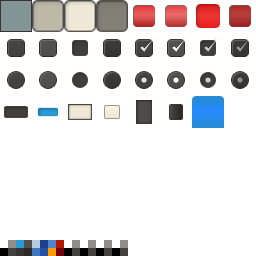
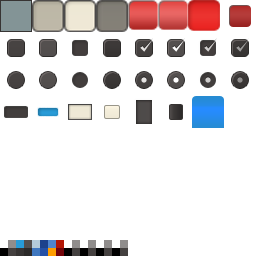
Fix sizing.

Changed region(s): [[0.5, 0.0, 0.875, 0.125]]

diff --git a/src/engine/opengl/SlicedGUIQuad.h b/src/engine/opengl/SlicedGUIQuad.h
@@ -19,33 +19,33 @@ private:
         /// LL
         pos->data[0]=glm::vec3(-m_size.x,-m_size.y,0);
 
-        pos->data[1]=glm::vec3(-m_size.x+(m_size.x/100.f)*m_margin,-m_size.y,0); /// X+
-        pos->data[2]=glm::vec3(-m_size.x+(m_size.x/100.f)*m_margin,-m_size.y+(m_size.y/100.f)*m_margin,0); /// Y+ X+
-        pos->data[3]=glm::vec3(-m_size.x,-m_size.y+(m_size.y/100.f)*m_margin,0); /// Y+
+        pos->data[1]=glm::vec3(-m_size.x+m_margin*ratio.x,-m_size.y,0); /// X+
+        pos->data[2]=glm::vec3(-m_size.x+m_margin*ratio.x,-m_size.y+m_margin*ratio.y,0); /// Y+ X+
+        pos->data[3]=glm::vec3(-m_size.x,-m_size.y+m_margin*ratio.y,0); /// Y+
         /// ///////////////////////////////////////////////////////
 
         /// LR
         pos->data[4]=glm::vec3(m_size.x,-m_size.y,0);
 
-        pos->data[5]=glm::vec3(m_size.x-(m_size.x/100.f)*m_margin,-m_size.y,0); /// X- Y
-        pos->data[6]=glm::vec3(m_size.x-(m_size.x/100.f)*m_margin,-m_size.y+(m_size.y/100.f)*m_margin,0); /// X- Y+
-        pos->data[7]=glm::vec3(m_size.x,-m_size.y+(m_size.y/100.f)*m_margin,0); /// X Y+
+        pos->data[5]=glm::vec3(m_size.x-m_margin*ratio.x,-m_size.y,0); /// X- Y
+        pos->data[6]=glm::vec3(m_size.x-m_margin*ratio.x,-m_size.y+m_margin*ratio.y,0); /// X- Y+
+        pos->data[7]=glm::vec3(m_size.x,-m_size.y+m_margin*ratio.y,0); /// X Y+
         /// ///////////////////////////////////////////////////////
 
         /// UR
         pos->data[8]=glm::vec3(m_size.x,m_size.y,0);
 
-        pos->data[9]=glm::vec3(m_size.x-(m_size.x/100.f)*m_margin,m_size.y,0); /// X- Y
-        pos->data[10]=glm::vec3(m_size.x-(m_size.x/100.f)*m_margin,m_size.y-(m_size.y/100.f)*m_margin,0); /// X- Y-
-        pos->data[11]=glm::vec3(m_size.x,m_size.y-(m_size.y/100.f)*m_margin,0); /// X Y-
+        pos->data[9]=glm::vec3(m_size.x-m_margin*ratio.x,m_size.y,0); /// X- Y
+        pos->data[10]=glm::vec3(m_size.x-m_margin*ratio.x,m_size.y-m_margin*ratio.y,0); /// X- Y-
+        pos->data[11]=glm::vec3(m_size.x,m_size.y-m_margin*ratio.y,0); /// X Y-
         /// ///////////////////////////////////////////////////////
 
         /// UL
         pos->data[12]=glm::vec3(-m_size.x,m_size.y,0);
 
-        pos->data[13]=glm::vec3(-m_size.x+(m_size.x/100.f)*m_margin,m_size.y,0);
-        pos->data[14]=glm::vec3(-m_size.x,m_size.y-(m_size.y/100.f)*m_margin,0);
-        pos->data[15]=glm::vec3(-m_size.x+(m_size.x/100.f)*m_margin,m_size.y-(m_size.y/100.f)*m_margin,0);
+        pos->data[13]=glm::vec3(-m_size.x+m_margin*ratio.x,m_size.y,0);
+        pos->data[14]=glm::vec3(-m_size.x,m_size.y-m_margin*ratio.y,0);
+        pos->data[15]=glm::vec3(-m_size.x+m_margin*ratio.x,m_size.y-m_margin*ratio.y,0);
         /// ///////////////////////////////////////////////////////
     }
 
@@ -95,8 +95,8 @@ public:
         tex_coords->data.resize(16);
 
         glm::vec2 tm(1);
-        tm.x = 1/256.f*m_margin;
-        tm.y = 1/256.f*m_margin;
+        tm.x = 1.f/256.f*m_margin;
+        tm.y = 1.f/256.f*m_margin;
 
         glm::vec2 a=glm::vec2(helpers::limit(uvs[0].x,0.f,1.f),helpers::limit(uvs[0].y,0.f,1.f));
         glm::vec2 b=glm::vec2(helpers::limit(uvs[1].x,0.f,1.f),helpers::limit(uvs[1].y,0.f,1.f));
@@ -150,12 +150,12 @@ public:
 
     void Render()
     {
-        //glPolygonMode(GL_FRONT_AND_BACK,GL_LINE);
-        //glBindTexture(GL_TEXTURE_2D,0);
+//        glPolygonMode(GL_FRONT_AND_BACK,GL_LINE);
+//        glBindTexture(GL_TEXTURE_2D,0);
         glBindVertexArray(glmesh->vao);
         glDrawElements(GL_TRIANGLES,54,GL_UNSIGNED_INT,0);
         glBindVertexArray(0);
-        //glPolygonMode(GL_FRONT_AND_BACK,GL_FILL);
+//        glPolygonMode(GL_FRONT_AND_BACK,GL_FILL);
     }
 
     void SetTCoords(vector<glm::vec2> tcoords)
@@ -185,6 +185,9 @@ public:
             this->m_size.x=1.f;
             this->m_size.y=1.f;
         }
+
+        ratio.x=1.f/size.x;
+        ratio.y=1.f/size.y;
 
         CreateVerts();
 

diff --git a/src/engine/gui/GUIEnvironment.cpp b/src/engine/gui/GUIEnvironment.cpp
@@ -347,7 +347,7 @@ void GUIEnvironment::draw_sliced_gui_quad(Rect2D<int> dims,std::shared_ptr<Textu
 
     glUniformMatrix4fv(gui_shader->getparam("M"),1,GL_FALSE,glm::value_ptr(M));
     glUniform1ui(gui_shader->getparam("coloured"),0);
-    //sliced_quad->SetRatio(glm::vec2(dims.w,dims.h));
+    sliced_quad->SetRatio(glm::vec2(dims.w,dims.h));
     sliced_quad->Render();
 
     glDisable(GL_BLEND);
@@ -373,7 +373,7 @@ void GUIEnvironment::draw_sliced_gui_quad(Rect2D<int> dims,uint32_t style,bool t
     glUniformMatrix4fv(gui_shader->getparam("M"),1,GL_FALSE,glm::value_ptr(M));
     glUniform1ui(gui_shader->getparam("coloured"),0);
     glUniform1f(gui_shader->getparam("alpha"),0.9f);
-    //sliced_quad->SetRatio(glm::vec2(dims.w,dims.h));
+    sliced_quad->SetRatio(glm::vec2(dims.w,dims.h));
     sliced_quad->Render();
     glDisable(GL_BLEND);
     glBindTexture(GL_TEXTURE_2D,0);
@@ -393,6 +393,6 @@ void GUIEnvironment::draw_sliced_gui_quad(Rect2D<int> dims,glm::vec4 col)
     glUniformMatrix4fv(gui_shader->getparam("M"),1,GL_FALSE,glm::value_ptr(M));
     glUniform1ui(gui_shader->getparam("coloured"),1);
     glUniform4fv(gui_shader->getparam("color"),1,glm::value_ptr(col));
-    //sliced_quad->SetRatio(glm::vec2(dims.w,dims.h));
+    sliced_quad->SetRatio(glm::vec2(dims.w,dims.h));
     sliced_quad->Render();
 }

diff --git a/src/applications/voxelz/VoxelzApp.cpp b/src/applications/voxelz/VoxelzApp.cpp
@@ -197,11 +197,13 @@ void InitPlaneMesh(AppContext * ctx)
 
     gui_static_text* texts[10];
 
-    gui_button* tbtn=new gui_button(env,Rect2D<int>(200,0,200,40),L"Button");
+    gui_button* tbtn=new gui_button(env,Rect2D<int>(200,0,64,64),L"Button");
 
     gui_checkbox* chk = new gui_checkbox(env,Rect2D<int>(200,40,16,16),false);
 
-    gui_edit_box* eb = new gui_edit_box(env, Rect2D<int>(210,60,256,128),L"Editboxas",glm::vec4(1),true,true,false);
+    gui_edit_box* eb = new gui_edit_box(env, Rect2D<int>(210,60,20,20),L"Editboxas",glm::vec4(1),true,true,false);
+
+    gui_window* win = new gui_window(env,Rect2D<int>(512,0,256,256),L"My precious");
 
     std::stringstream ss;
 
